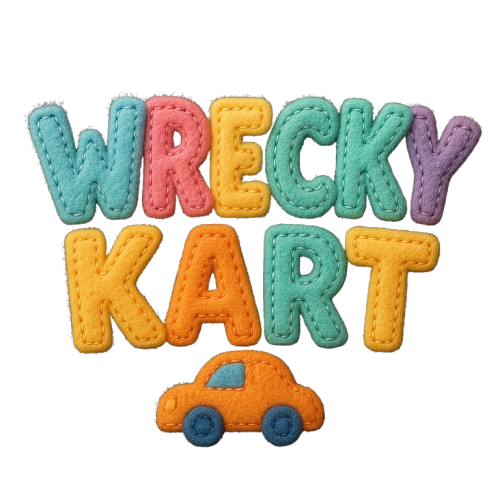
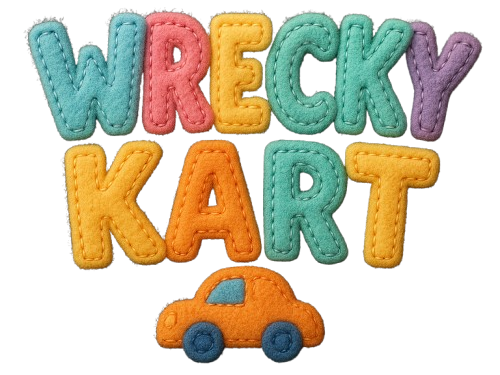
Auto commit

diff --git a/wrecky/index.html b/wrecky/index.html
@@ -334,7 +334,9 @@
     <div class="container">
         <header class="header">
             <div class="company-badge">THE WRENCH</div>
-            <h1 class="title">WRECKY KART</h1>
+            <h1 class="title">
+            <img src="wk.png" alt="WRECKY KART" />
+            </h1>
             <p class="subtitle">Chaotic Racing • Strategic Trapping • Endless Fun</p>
         </header>
         
